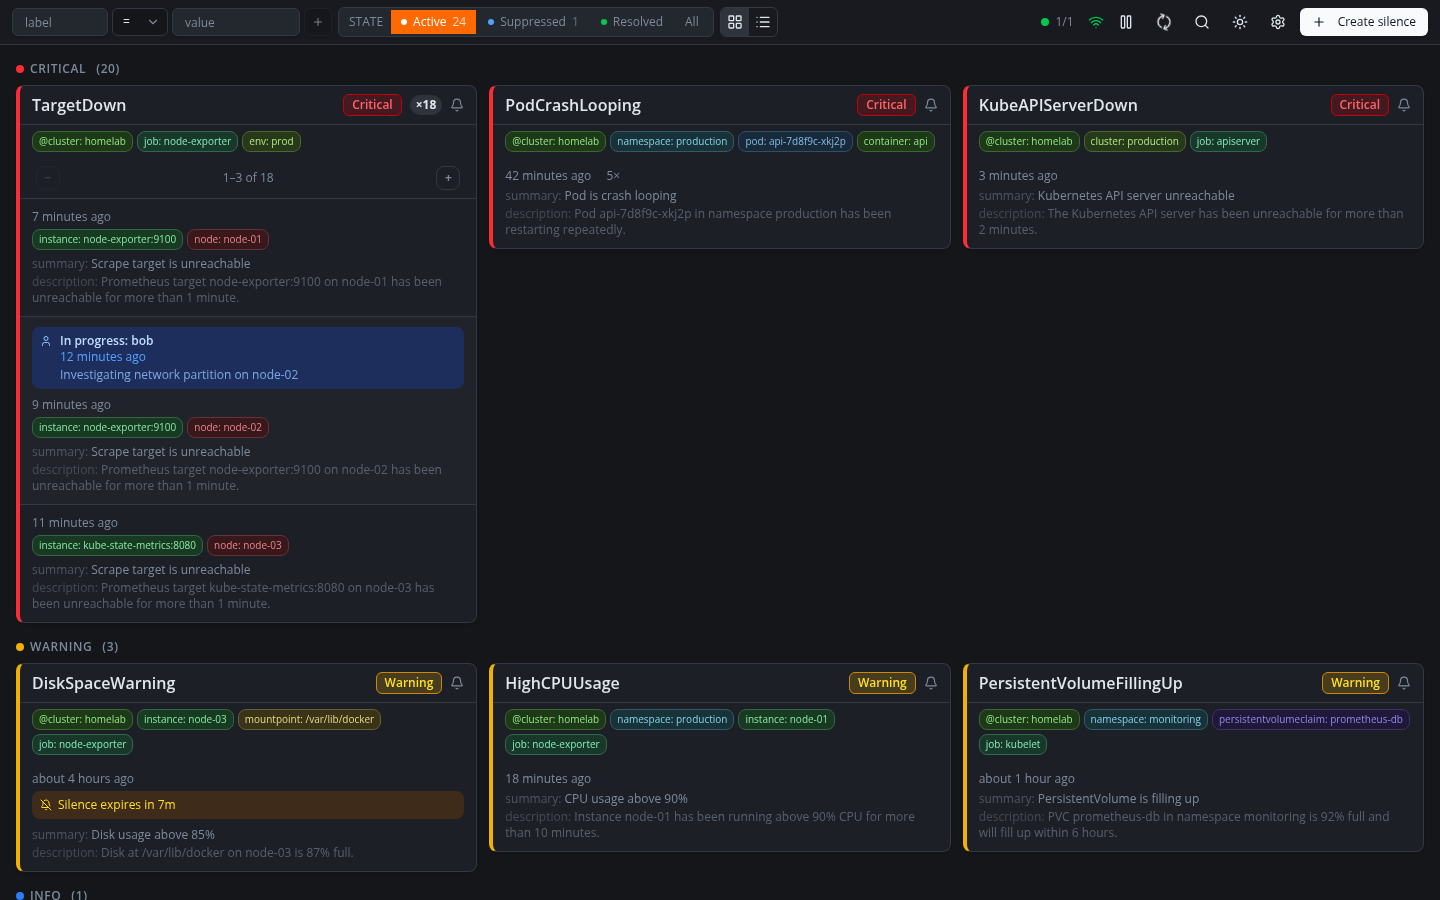
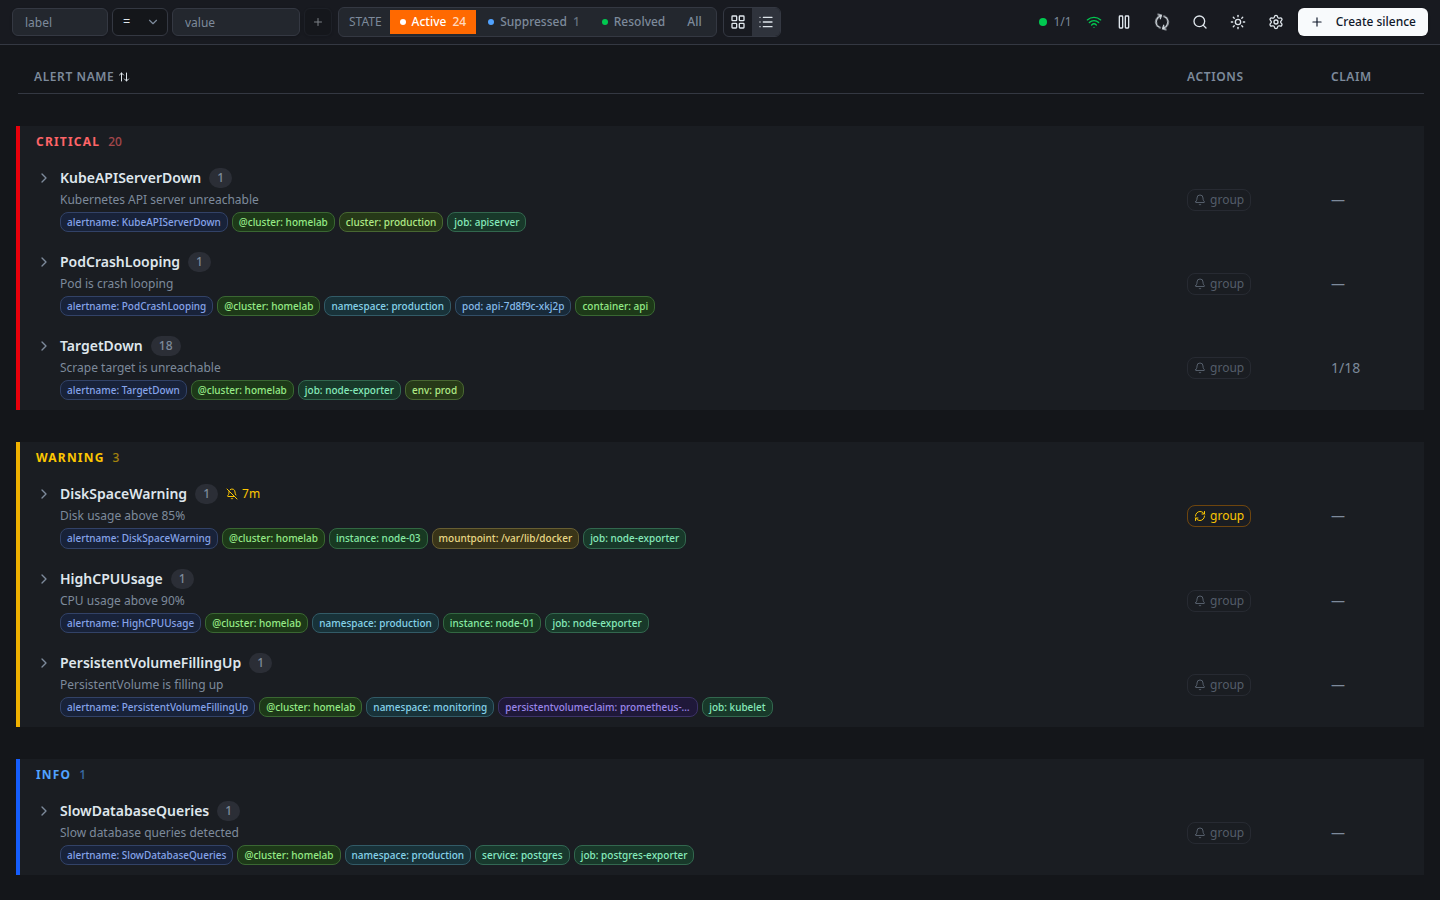
fix(screenshots): correct localStorage key for view mode in Playwright spec
Tests used 'jarvis-view-mode' (kebab-case) but the store writes to
'jarvis-viewMode' (camelCase). The wrong key was silently ignored,
causing the list view screenshot to render in card mode instead.

Regenerated feature-list-view.png with the correct list layout.
Also bumps undici to clear a high-severity CVE (GHSA-vmh5-mc38-953g).

diff --git a/frontend/e2e/feature-screenshots.spec.ts b/frontend/e2e/feature-screenshots.spec.ts
@@ -420,7 +420,7 @@ test.describe('Feature screenshots', () => {
     await mockBaseAPIs(page)
     await page.goto('/?state=active')
     // Ensure card view is active (clear any persisted list mode)
-    await page.evaluate(() => localStorage.setItem('jarvis-view-mode', 'card'))
+    await page.evaluate(() => localStorage.setItem('jarvis-viewMode', 'card'))
     await page.reload()
     await waitForAlerts(page)
     await page.screenshot({ path: `${ASSETS_DIR}/feature-card-view.png`, fullPage: false })
@@ -432,7 +432,7 @@ test.describe('Feature screenshots', () => {
     await dismissNoAuthNotice(page)
     await mockBaseAPIs(page)
     await page.goto('/?state=active')
-    await page.evaluate(() => localStorage.setItem('jarvis-view-mode', 'list'))
+    await page.evaluate(() => localStorage.setItem('jarvis-viewMode', 'list'))
     await page.reload()
     await waitForAlerts(page)
     await page.screenshot({ path: `${ASSETS_DIR}/feature-list-view.png`, fullPage: false })
@@ -445,7 +445,7 @@ test.describe('Feature screenshots', () => {
     await mockBaseAPIs(page)
     const matchers = JSON.stringify([{ name: 'namespace', operator: '=', value: 'production' }])
     await page.goto(`/?state=active&matchers=${encodeURIComponent(matchers)}`)
-    await page.evaluate(() => localStorage.setItem('jarvis-view-mode', 'card'))
+    await page.evaluate(() => localStorage.setItem('jarvis-viewMode', 'card'))
     await waitForAlerts(page)
     await page.screenshot({ path: `${ASSETS_DIR}/feature-filter.png`, fullPage: false })
   })
@@ -513,7 +513,7 @@ test.describe('Feature screenshots', () => {
     await dismissNoAuthNotice(page)
     await mockBaseAPIs(page)
     await page.goto('/?state=active&alert=fp-001')
-    await page.evaluate(() => localStorage.setItem('jarvis-view-mode', 'card'))
+    await page.evaluate(() => localStorage.setItem('jarvis-viewMode', 'card'))
     await waitForAlerts(page)
     // Wait for the detail panel (sheet) to open
     await page.waitForTimeout(800)
@@ -526,7 +526,7 @@ test.describe('Feature screenshots', () => {
     await dismissNoAuthNotice(page)
     await mockBaseAPIs(page, ALERTS_ACTIVE_WITH_CLAIM)
     await page.goto('/?state=active&alert=fp-001')
-    await page.evaluate(() => localStorage.setItem('jarvis-view-mode', 'card'))
+    await page.evaluate(() => localStorage.setItem('jarvis-viewMode', 'card'))
     await waitForAlerts(page)
     await page.waitForTimeout(800)
     await page.screenshot({ path: `${ASSETS_DIR}/feature-detail-claimed.png`, fullPage: false })
@@ -557,7 +557,7 @@ test.describe('Feature screenshots', () => {
       route.fulfill({ status: 200, contentType: 'application/json', body: JSON.stringify([]) }),
     )
     await page.goto('/?state=active&alert=fp-001')
-    await page.evaluate(() => localStorage.setItem('jarvis-view-mode', 'card'))
+    await page.evaluate(() => localStorage.setItem('jarvis-viewMode', 'card'))
     await waitForAlerts(page)
     await page.waitForTimeout(600)
     // Click the silence button inside the detail panel
@@ -573,7 +573,7 @@ test.describe('Feature screenshots', () => {
     await dismissNoAuthNotice(page)
     await mockBaseAPIs(page)
     await page.goto('/?state=active')
-    await page.evaluate(() => localStorage.setItem('jarvis-view-mode', 'card'))
+    await page.evaluate(() => localStorage.setItem('jarvis-viewMode', 'card'))
     await waitForAlerts(page)
     await page.screenshot({ path: `${ASSETS_DIR}/feature-alert-expiring-silence.png`, fullPage: false })
   })
@@ -609,7 +609,7 @@ test.describe('Feature screenshots', () => {
       route.fulfill({ status: 200, contentType: 'application/json', body: JSON.stringify([]) }),
     )
     await page.goto('/?state=active&alert=fp-003')
-    await page.evaluate(() => localStorage.setItem('jarvis-view-mode', 'card'))
+    await page.evaluate(() => localStorage.setItem('jarvis-viewMode', 'card'))
     await waitForAlerts(page)
     await page.waitForTimeout(800)
     await page.screenshot({ path: `${ASSETS_DIR}/feature-alert-expiring-detail.png`, fullPage: false })